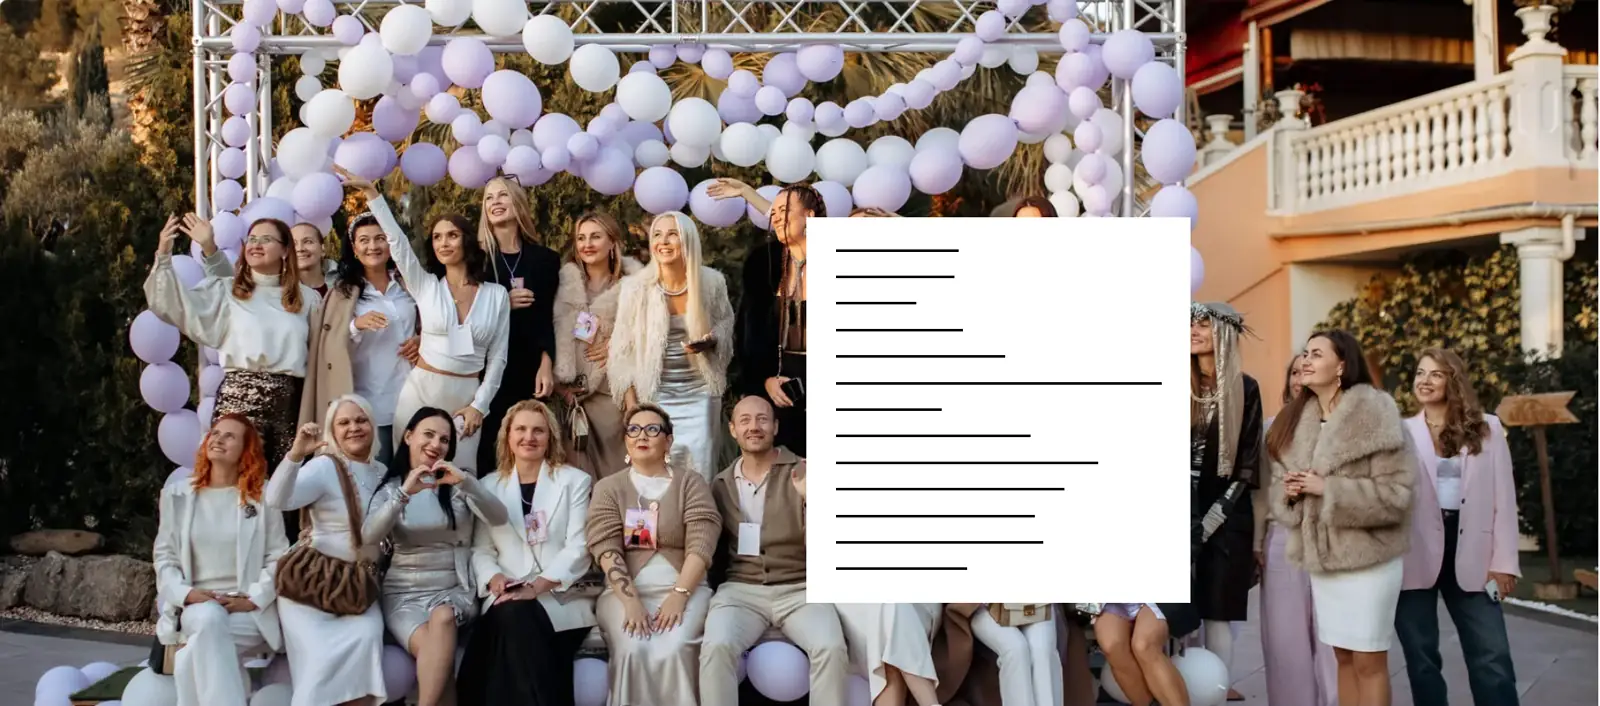
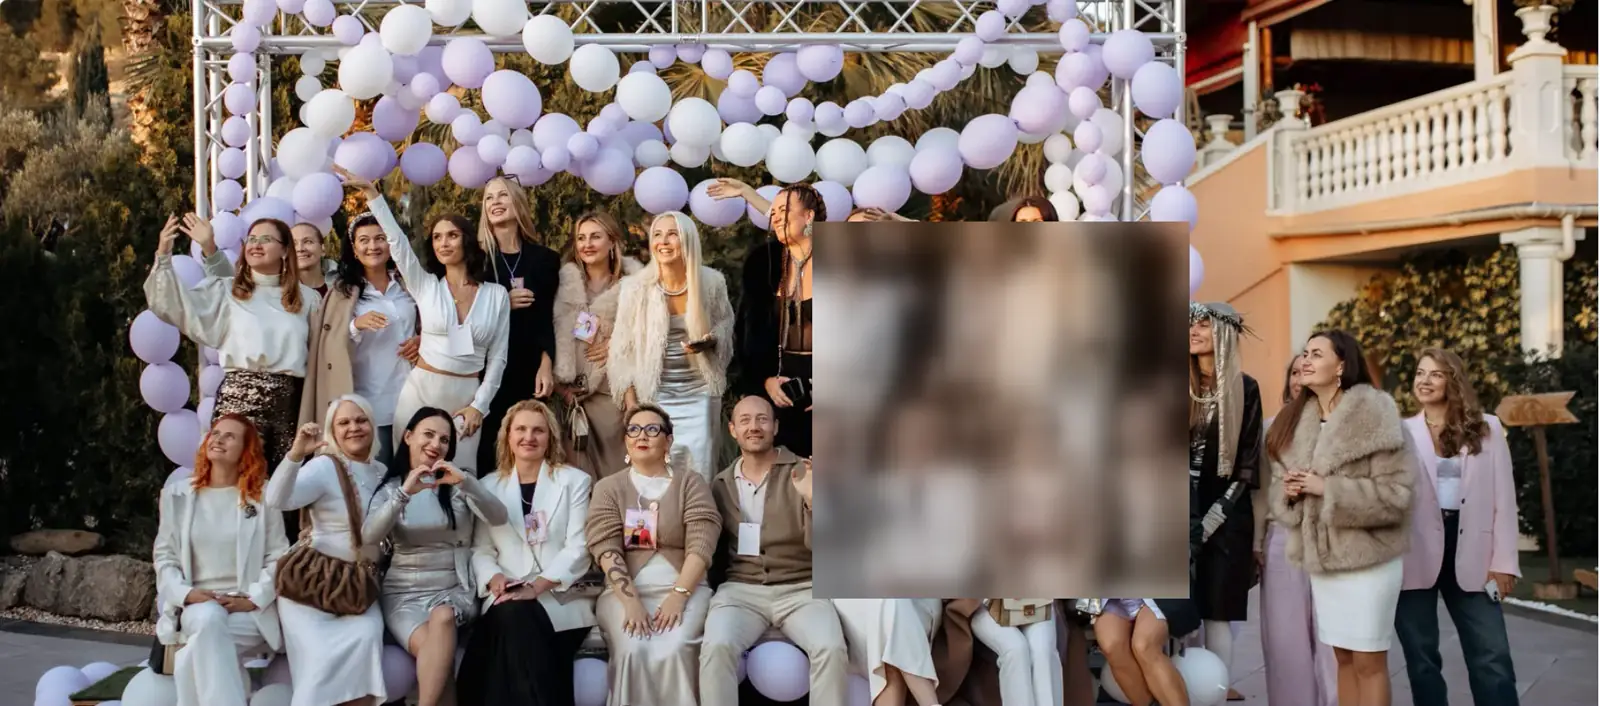
Riquadro con linee nere solo nella versione per telefono (immagine dedicata)
Claude-Session: https://claude.ai/code/session_016ScxZR4mUfrUzfVe4SV3Z5

Changed region(s): [[0.5, 0.2805, 0.75, 0.8725]]

diff --git a/sito/index.html b/sito/index.html
@@ -98,7 +98,7 @@
   /* Pagina 9: spazi del festival (foto + elenco + bottone) */
   .zones { background: linear-gradient(100deg, #e9deff 0%, #f2e7f0 50%, #fef2db 100%); }
   .zones-photo { position: relative; }
-  .zones-photo > img { display: block; width: 100%; height: auto; }
+  .zones-photo img { display: block; width: 100%; height: auto; }
   .zones-list { position: absolute; left: 50.4%; top: 30.8%; width: 24%; height: 54.6%; box-sizing: border-box; padding: 1.1% 1.2%; background: #fff; color: #2b0d1d;
     display: flex; flex-direction: column; justify-content: space-between; margin: 0; list-style: none; font-size: clamp(.6rem, 1.15vw, 1.15rem); line-height: 1.25; }
   .zones-list li { margin: 0; }
@@ -259,7 +259,7 @@
 
 <section class="zones" id="zony">
   <div class="zones-photo">
-    <img src="foto/sala.webp" alt="" loading="lazy">
+    <picture><source media="(max-width: 900px)" srcset="foto/sala-mobile.webp"><img src="foto/sala.webp" alt="" loading="lazy"></picture>
     <ul class="zones-list">
       <li>-Главная сцена</li>
       <li>-Игровые зоны</li>
